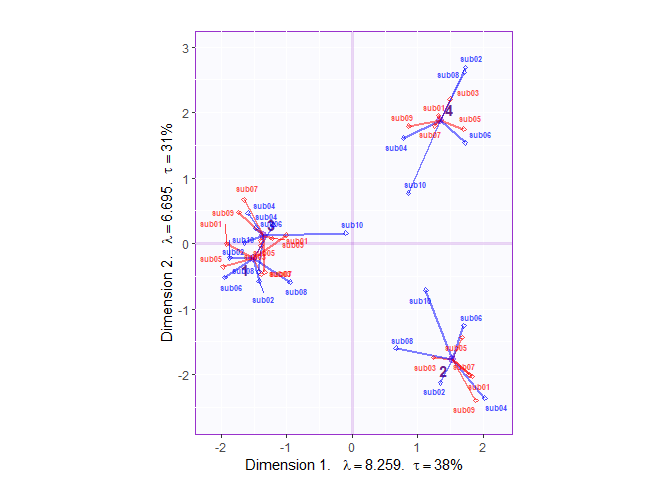
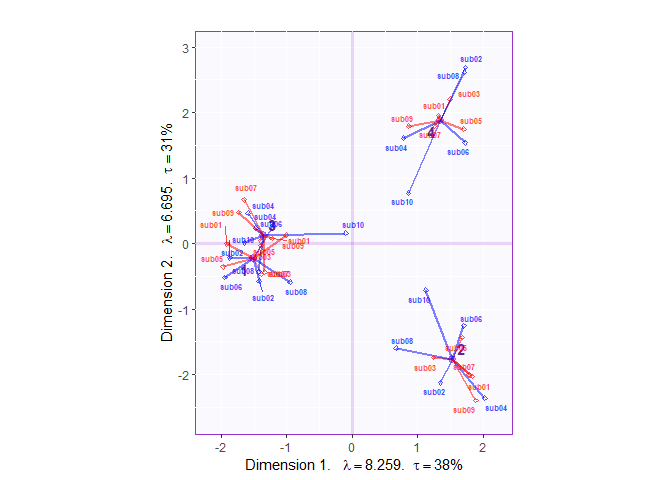
Add mean factor scores plot for common edges

diff --git a/res_MuSu_4rows/11_DoubCent[NC, c, HMFA]/MSC_allsubs_simattack/DoubCent_bignet_simattack_4rows__NA,_c,_HMFA-edgetype_.md b/res_MuSu_4rows/11_DoubCent[NC, c, HMFA]/MSC_allsubs_simattack/DoubCent_bignet_simattack_4rows__NA,_c,_HMFA-edgetype_.md
@@ -170,8 +170,8 @@ edgCtr12 <- (absCtrEdg[,1] + absCtrEdg[,2])/(svd.res$ExPosition.Data$eigs[1] + s
 
 #--- the important variables are the ones that contribute more than or equal to the average
 importantEdg <- (edgCtr12 >= 1/length(edgCtr12))
-importantEdg1 <- (cI[,1] >= 1/length(cJ[,1]))
-importantEdg2 <- (cI[,2] >= 1/length(cJ[,2]))
+importantEdg1 <- (absCtrEdg[,1] >= 1/length(cJ[,1]))
+importantEdg2 <- (absCtrEdg[,2] >= 1/length(cJ[,2]))
 
 #--- find the between/within description for each network edge
 net.edge <- matrix(NA, nrow = nrow(c_edge),ncol = 1)
@@ -254,7 +254,7 @@ BootCube.Comm <- Boot4Mean(svd.res$ExPosition.Data$fj,
 tictoc::toc()
 ```
 
-    ## 257.24 sec elapsed
+    ## 250.8 sec elapsed
 
 ``` r
 # compute mean factor scores for each edge and the partial factor scores of each subject for these factor scores
@@ -266,6 +266,26 @@ mean.fj.label <- strsplit(sub('(^[^_]+)_(.*)$', '\\1 \\2', rownames(mean.fj)), '
 
 ### compute means
 mean.edge.fj <- getMeans(mean.fj, mean.fj.label$edge)
+
+### identify important edge-------------------------------------------------------------------
+#--- get the sum of contribution for each edge
+c_commedge <- aggregate(cJ,by = list(commedge = gtlabel$edges_label),sum)
+rownames(c_commedge) <- c_commedge$commedge
+c_commedge <- c_commedge[,-1]
+
+## Find important commedges
+#--- compute the sums of squares of each variable for each component
+absCtrCommEdg <- as.matrix(c_commedge) %*% diag(svd.res$ExPosition.Data$eigs)
+
+#--- get the contribution for component 1 AND 2 by sum(SS from 1, SS from 2)/sum(eigs 1, eigs 2)
+CommedgCtr12 <- (absCtrCommEdg[,1] + absCtrCommEdg[,2])/(svd.res$ExPosition.Data$eigs[1] + svd.res$ExPosition.Data$eigs[2])
+
+#--- the important variables are the ones that contribute more than or equal to the average
+importantCommEdg <- (CommedgCtr12 >= 1/length(CommedgCtr12))
+importantCommEdg1 <- (absCtrCommEdg[,1] >= 1/length(cJ[,1]))
+importantCommEdg2 <- (absCtrCommEdg[,2] >= 1/length(cJ[,2]))
+
+## identify important edge-----------------------------------------------------------------
 
 ### create array for partial factor scores
 edge.pF <- array(data = NA, 
@@ -292,7 +312,7 @@ BootCube.Comm.edge <- Boot4Mean(mean.fj,
 tictoc::toc()
 ```
 
-    ## 5.72 sec elapsed
+    ## 5.62 sec elapsed
 
 ``` r
 # Compute means of factor scores for different types of edges
@@ -308,7 +328,7 @@ BootCube.Comm.bw <- Boot4Mean(svd.res$ExPosition.Data$fj,
 tictoc::toc()
 ```
 
-    ## 129.05 sec elapsed
+    ## 119.9 sec elapsed
 
 Next, we plot the factor scores for the subject x edges (a mess): Dim 1
 & 2
